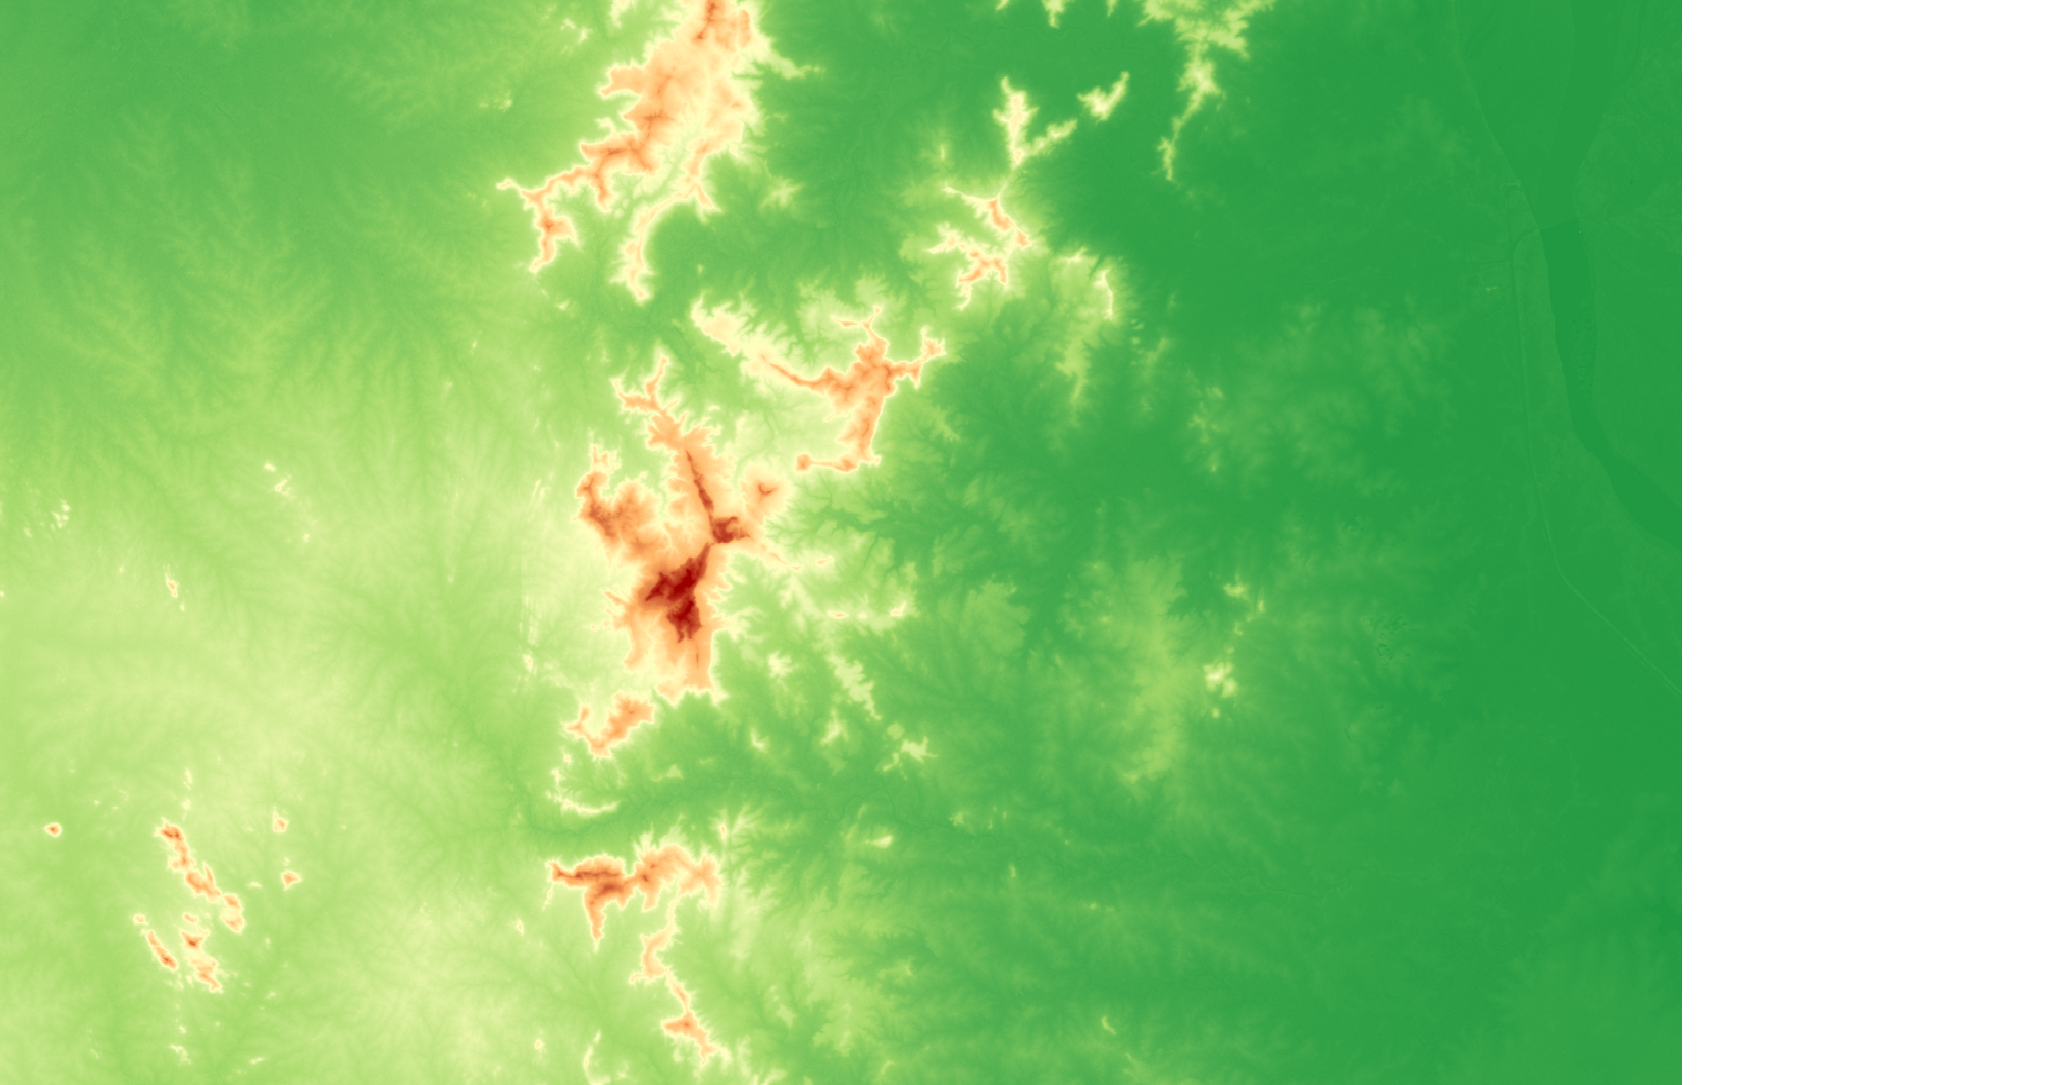
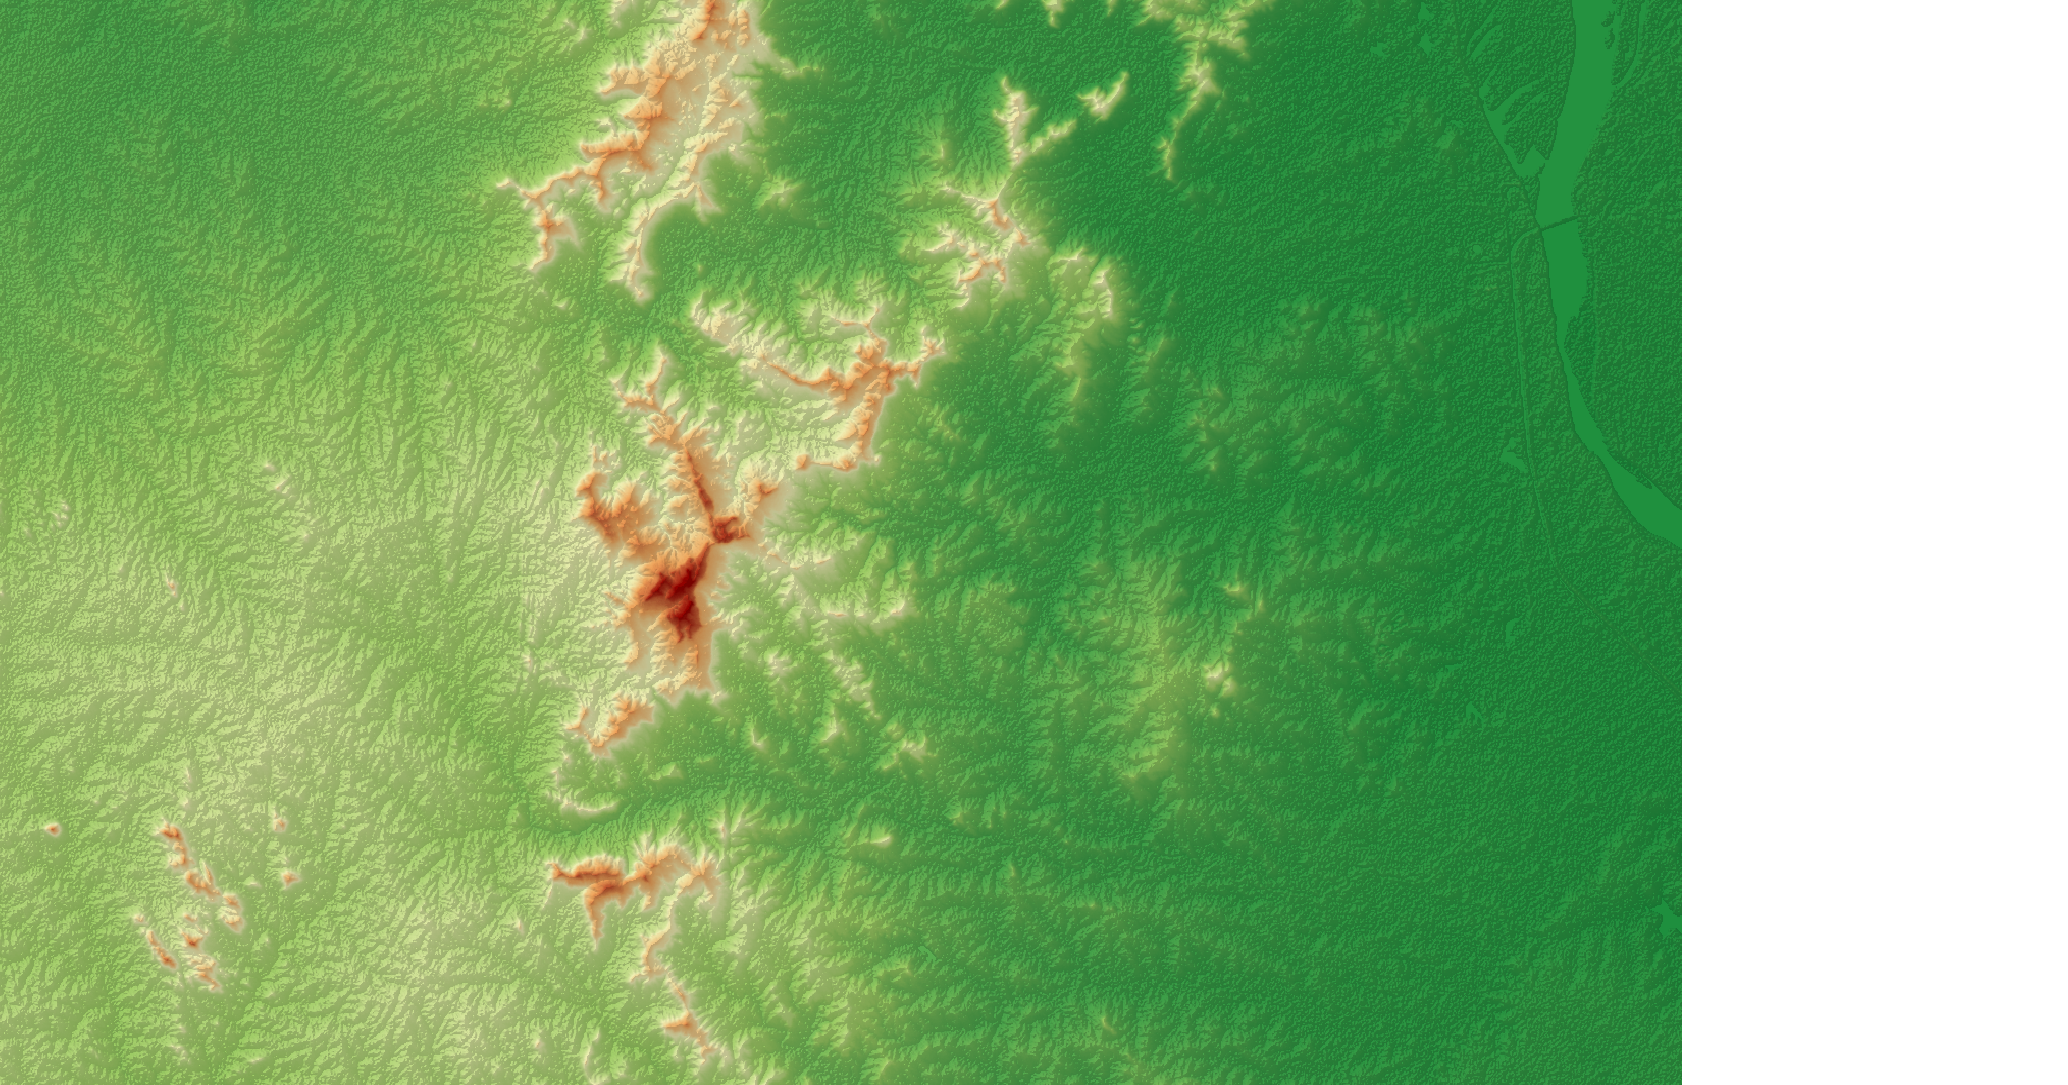
add shading

diff --git a/index.html b/index.html
@@ -91,7 +91,7 @@
 
 <script>
 Q3D.Config.allVisible = true;
-Q3D.Config.localMode = true;
+
 if (typeof proj4 === "undefined") document.getElementById("lib_proj4js").style.display = "none";
 
 var app = Q3D.application,
@@ -100,7 +100,7 @@ var app = Q3D.application,
 app.init(container);           // initialize application
 
 // load the scene
-app.loadSceneFile("./data/index/scene.js", function () {
+app.loadSceneFile("./data/index/scene.json", function () {
   app.start();
 
   // North arrow inset
